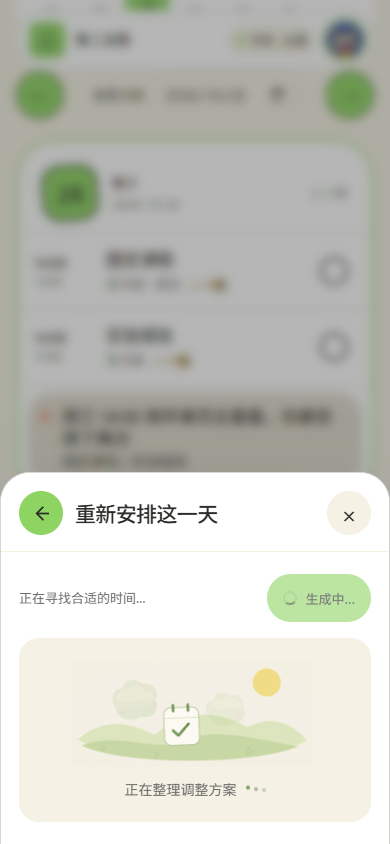
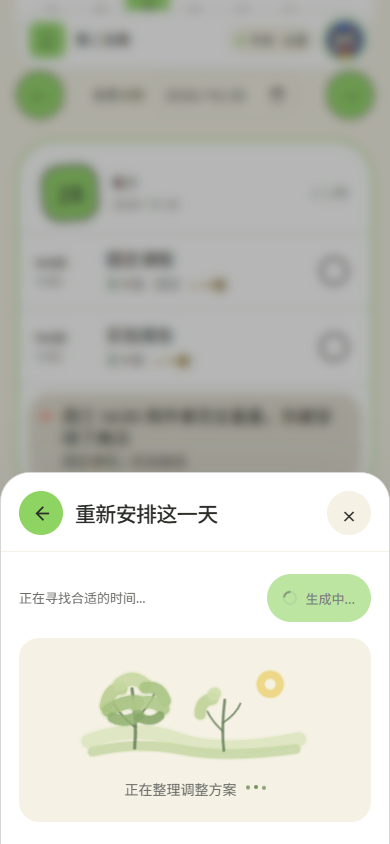
fix: draw loading orchard stroke by stroke

Changed region(s): [[0.2154, 0.7701, 0.7692, 0.9242], [0.6462, 0.9242, 0.6769, 0.955]]

diff --git a/src/ui/composites/PlanningLoading.tsx b/src/ui/composites/PlanningLoading.tsx
@@ -1,40 +1,99 @@
-import { useId } from "react";
+"use client";
 
-/** A small, self-contained orchard inspired by the supplied brush animation. */
+import { useEffect, useId, useRef } from "react";
+
+type Stroke = { d: string; color: string; width: number; weight?: number; branch?: boolean };
+// Every path is one brush movement, revealed in strict order on a shared timeline.
+const STROKES: Stroke[] = [
+  { d: "M38 103Q92 83 140 101T279 101", color: "#dce5bf", width: 16, weight: 2 },
+  { d: "M43 115Q95 103 145 113T275 112", color: "#c8d8a7", width: 11, weight: 1.6 },
+  { d: "M246 27a11 11 0 1 1-.1 0", color: "#ecd57b", width: 9, weight: 1.5 },
+  { d: "M91 111Q94 82 88 43", color: "#6e8561", width: 3.5, weight: 1.4, branch: true },
+  { d: "M92 87Q76 76 67 60", color: "#6e8561", width: 2.5, branch: true },
+  { d: "M91 77Q107 66 114 48", color: "#6e8561", width: 2.5, branch: true },
+  { d: "M58 63Q62 42 76 43", color: "#b8cd8e", width: 14, weight: 1.3 },
+  { d: "M74 38Q89 26 103 39", color: "#c6d9a0", width: 15, weight: 1.3 },
+  { d: "M103 42Q120 39 126 57", color: "#a8c383", width: 13 },
+  { d: "M61 68Q78 57 94 58", color: "#a6c17f", width: 15, weight: 1.2 },
+  { d: "M92 62Q111 53 124 66", color: "#afc88a", width: 14 },
+  { d: "M66 76Q82 84 96 73", color: "#93b372", width: 12 },
+  { d: "M96 76Q111 83 120 74", color: "#86a768", width: 10 },
+  { d: "M193 114Q190 89 194 56", color: "#6e8561", width: 3, weight: 1.2, branch: true },
+  { d: "M192 92Q180 81 174 69", color: "#6e8561", width: 2, branch: true },
+  { d: "M192 82Q207 72 212 60", color: "#6e8561", width: 2, branch: true },
+  { d: "M166 72Q166 56 180 55", color: "#bed398", width: 13 },
+  { d: "M181 50Q194 40 207 52", color: "#cfddac", width: 14 },
+  { d: "M208 57Q222 55 224 71", color: "#b3cb8b", width: 12 },
+  { d: "M169 77Q184 67 199 73", color: "#abc584", width: 14 },
+  { d: "M185 84Q204 91 219 80", color: "#9dbb78", width: 12 },
+  { d: "M72 47l1 1", color: "#e9bdb0", width: 5, weight: .35 },
+  { d: "M99 39l1 1", color: "#e9bdb0", width: 6, weight: .35 },
+  { d: "M114 61l1 1", color: "#f0cabc", width: 5, weight: .35 },
+  { d: "M78 70l1 1", color: "#efd0bc", width: 4, weight: .35 },
+  { d: "M181 65l1 1", color: "#e9bdb0", width: 5, weight: .35 },
+  { d: "M209 74l1 1", color: "#efc8b7", width: 5, weight: .35 },
+  { d: "M134 76v23", color: "#fdfbf4", width: 15, weight: .6 },
+  { d: "M146 76v23", color: "#fdfbf4", width: 15, weight: .6 },
+  { d: "M157 76v23", color: "#fdfbf4", width: 15, weight: .6 },
+  { d: "M134 66h23q8 0 8 8v27q0 8-8 8h-23q-8 0-8-8V74q0-8 8-8Z", color: "#9eb781", width: 1.8, weight: 2 },
+  { d: "M128 78h35", color: "#c8d8a7", width: 1.5, weight: .7 },
+  { d: "M136 62v8", color: "#78965f", width: 3, weight: .4 },
+  { d: "M154 62v8", color: "#78965f", width: 3, weight: .4 },
+  { d: "M135 92l6 6 13-14", color: "#6b9350", width: 3, weight: 1.2 },
+  { d: "M53 114l-2-7m3 7 4-5", color: "#89a66d", width: 2, weight: .5 },
+  { d: "M218 118l3-9m-1 9 7-4", color: "#89a66d", width: 2, weight: .5 },
+  { d: "M112 122l-2-6m2 6 5-4", color: "#89a66d", width: 2, weight: .5 },
+];
+const TOTAL_WEIGHT = STROKES.reduce((sum, stroke) => sum + (stroke.weight ?? 1), 0);
+const CYCLE_MS = 6200;
+
 export function PlanningLoading({ label }: { label: string }) {
   const paperId = useId();
+  const drawing = useRef<SVGGElement>(null);
+  useEffect(() => {
+    const strokes = Array.from(drawing.current?.querySelectorAll<SVGGElement>(".orchard-stroke") ?? []);
+    const preference = window.matchMedia("(prefers-reduced-motion: reduce)");
+    let animations: Animation[] = [];
+    const play = () => {
+      animations.forEach(animation => animation.cancel());
+      animations = [];
+      let cursor = 0;
+      strokes.forEach((element, index) => {
+        const stroke = STROKES[index];
+        if (!stroke) return;
+        element.style.strokeDashoffset = preference.matches ? "0" : "1";
+        element.style.opacity = preference.matches ? "1" : "0";
+        if (preference.matches) return;
+        const start = .02 + cursor / TOTAL_WEIGHT * .78;
+        cursor += stroke.weight ?? 1;
+        const end = .02 + cursor / TOTAL_WEIGHT * .78;
+        animations.push(element.animate([
+          { strokeDashoffset: "1", opacity: 0, offset: 0 },
+          { strokeDashoffset: "1", opacity: 0, offset: start },
+          { strokeDashoffset: "1", opacity: 1, offset: start + .0001 },
+          { strokeDashoffset: "0", opacity: 1, offset: end },
+          { strokeDashoffset: "0", opacity: 1, offset: .94 },
+          { strokeDashoffset: "0", opacity: 0, offset: 1 },
+        ], { duration: CYCLE_MS, iterations: Infinity, easing: "linear" }));
+      });
+      if (animations.length) {
+        const origin = document.timeline.currentTime;
+        animations.forEach(animation => { animation.startTime = origin; });
+      }
+    };
+    play();
+    preference.addEventListener("change", play);
+    return () => { preference.removeEventListener("change", play); animations.forEach(animation => animation.cancel()); };
+  }, []);
+
   return <div className="planning-loading" role="status" aria-live="polite" aria-atomic="true">
     <svg className="planning-orchard" viewBox="0 0 320 140" width="320" height="140" aria-hidden="true" focusable="false">
-      <defs><filter id={paperId} x="0" y="0" width="100%" height="100%"><feTurbulence type="fractalNoise" baseFrequency=".65" numOctaves="2" seed="8" /><feColorMatrix type="saturate" values="0" /><feComponentTransfer><feFuncA type="linear" slope=".055" /></feComponentTransfer><feBlend in="SourceGraphic" mode="multiply" /></filter></defs>
-      <g filter={"url(#" + paperId + ")"}>
-        <path fill="#f5f1e7" d="M23 96C9 70 34 19 83 26c38-27 74-6 99-7 44-9 105 13 111 49 8 44-49 59-103 53-62 18-146 12-167-25Z" />
-        <circle className="orchard-sun" cx="242" cy="36" r="16" fill="#f1dd85" />
-        <path fill="#dde6bf" d="M26 101c30-26 61-19 88-5 35-32 74-27 106-9 27-14 50-6 68 15-42 26-211 31-262-1Z" />
-        <path fill="#c9d9a5" d="M30 108c42-15 74 4 107-2 43-22 91-5 141 3-48 21-196 23-248-1Z" />
-        <g className="orchard-tree orchard-tree-one" style={{ transformOrigin: "91px 108px" }}>
-          <path className="orchard-branch" d="M91 109c1-19-3-42-1-65m1 41L73 68m18 9 17-19" />
-          <g className="orchard-crown" style={{ transformOrigin: "90px 61px" }}>
-            <path fill="#9fbe7b" d="M58 69c-13-17-4-36 12-37 3-18 26-19 35-7 19-5 34 15 23 29 10 20-7 34-24 29-19 12-43 5-46-14Z" />
-            <path fill="#bfd394" d="M59 54c-3-16 11-22 21-17 6-14 25-13 30 0 11-1 17 7 13 16-20-6-36 11-64 1Z" />
-            <path fill="#789e66" opacity=".45" d="M60 71c18 8 33-8 47-5 12-1 16-9 23-9 5 18-9 28-26 24-17 10-38 7-44-10Z" />
-          </g>
-        </g>
-        <g className="orchard-tree orchard-tree-two" style={{ transformOrigin: "192px 112px" }}>
-          <path className="orchard-branch" d="M192 114c-2-21 3-38 0-53m0 31-15-14m16 6 15-14" />
-          <g className="orchard-crown" style={{ transformOrigin: "193px 68px" }}>
-            <path fill="#b3cb8e" d="M165 77c-9-12-3-27 10-29 1-13 18-17 28-7 14-5 29 7 24 20 9 15-2 29-16 29-18 11-39 3-46-13Z" />
-            <path fill="#d1dfad" d="M168 63c-1-12 11-17 20-13 6-10 19-9 23 1 12-2 15 6 12 14-20-8-32 9-55-2Z" />
-          </g>
-        </g>
-        <g className="orchard-blossoms" fill="#efc8b7">
-          <circle cx="72" cy="47" r="3" /><circle cx="100" cy="39" r="3.5" /><circle cx="115" cy="61" r="3" /><circle cx="78" cy="70" r="2.5" /><circle cx="181" cy="65" r="3" /><circle cx="209" cy="73" r="3.5" />
-        </g>
-        <g className="orchard-note" style={{ transformOrigin: "145px 93px" }}>
-          <rect x="125" y="65" width="40" height="43" rx="8" fill="#fdfbf4" stroke="#b4c69b" />
-          <path d="M126 77h38" stroke="#d9e4c1" /><path d="M136 62v7m17-7v7" stroke="#78965f" strokeWidth="3" strokeLinecap="round" />
-          <path className="orchard-check" d="m135 91 6 6 12-13" fill="none" stroke="#6f9654" strokeWidth="3" strokeLinecap="round" strokeLinejoin="round" />
-        </g>
-        <path className="orchard-grass" d="m54 113-2-7m3 8 3-5m161 8 3-8m-2 9 7-4m-110 8-2-6m-1 6 5-4" fill="none" stroke="#89a66d" strokeWidth="2" strokeLinecap="round" />
+      <defs><filter id={paperId} x="-10%" y="-15%" width="120%" height="130%"><feTurbulence type="fractalNoise" baseFrequency=".055" numOctaves="2" seed="8" result="grain" /><feDisplacementMap in="SourceGraphic" in2="grain" scale="1.2" xChannelSelector="R" yChannelSelector="G" /></filter></defs>
+      <g ref={drawing} filter={"url(#" + paperId + ")"} fill="none" strokeLinecap="round" strokeLinejoin="round">
+        {STROKES.map((stroke, index) => <g key={index} className={"orchard-stroke" + (stroke.branch ? " orchard-branch" : "")} data-stroke={index} stroke={stroke.color}>
+          <path d={stroke.d} pathLength={1} strokeWidth={stroke.width * 1.3} opacity={.2} />
+          <path d={stroke.d} pathLength={1} strokeWidth={stroke.width} opacity={.85} />
+        </g>)}
       </g>
     </svg>
     <span className="planning-loading-label">{label}<span className="planning-loading-dots" aria-hidden="true"><i /><i /><i /></span></span>

diff --git a/src/app/globals.css b/src/app/globals.css
@@ -521,15 +521,11 @@ input:not([type=checkbox]),select{border:1px solid var(--sand);background:var(--
 .planning-loading{display:flex;flex-direction:column;align-items:center;justify-content:center;gap:6px;min-height:202px;padding:12px 16px 20px;border-radius:20px;background:var(--cream);overflow:hidden;color:var(--muted)}
 .planning-button-spinner{display:inline-block;flex:none;width:14px;height:14px;border:2px solid #6f965466;border-top-color:#31521f;border-radius:50%;animation:spin .8s linear infinite}.replan-toolbar .btn,.replan-feedback .btn{gap:8px}
 .planning-orchard{display:block;width:min(100%,320px);height:auto;flex-shrink:0}.planning-loading-label{display:flex;align-items:center;justify-content:center;gap:9px;font-size:14px;line-height:1.6;text-align:center}.planning-loading-dots{display:inline-flex;gap:4px}.planning-loading-dots i{width:4px;height:4px;border-radius:50%;background:#78965f;animation:orchard-dot 1.4s ease-in-out infinite}.planning-loading-dots i:nth-child(2){animation-delay:.18s}.planning-loading-dots i:nth-child(3){animation-delay:.36s}
-.orchard-branch{fill:none;stroke:#789066;stroke-width:3;stroke-linecap:round;stroke-linejoin:round;stroke-dasharray:130;animation:orchard-draw 5.2s ease-in-out infinite}.orchard-tree-two .orchard-branch{animation-delay:.3s}.orchard-crown{animation:orchard-grow 5.2s ease-in-out infinite}.orchard-tree-two .orchard-crown{animation-delay:.3s}.orchard-blossoms{animation:orchard-bloom 5.2s ease-in-out infinite}.orchard-note{animation:orchard-float 3s ease-in-out infinite}.orchard-check{stroke-dasharray:30;animation:orchard-draw 5.2s ease-in-out infinite .8s}.orchard-grass{animation:orchard-bloom 5.2s ease-in-out infinite .2s}.replan-feedback .planning-loading{min-height:180px;padding:4px 10px 14px}.replan-feedback .planning-orchard{width:min(100%,260px)}
-@keyframes orchard-draw{0%,8%{stroke-dashoffset:130;opacity:.3}38%,88%{stroke-dashoffset:0;opacity:1}100%{stroke-dashoffset:0;opacity:.3}}
-@keyframes orchard-grow{0%,10%{transform:scale(.64);opacity:.18}42%,88%{transform:scale(1);opacity:1}100%{transform:scale(.96);opacity:.35}}
-@keyframes orchard-bloom{0%,24%{opacity:.12}52%,88%{opacity:1}100%{opacity:.2}}
-@keyframes orchard-float{0%,100%{transform:translateY(0) rotate(-3deg)}50%{transform:translateY(-4px) rotate(2deg)}}
+.orchard-stroke{stroke-dasharray:1 1;stroke-dashoffset:1;opacity:0}.replan-feedback .planning-loading{min-height:180px;padding:4px 10px 14px}.replan-feedback .planning-orchard{width:min(100%,260px)}
 @keyframes orchard-dot{0%,80%,100%{opacity:.35;transform:translateY(0)}40%{opacity:1;transform:translateY(-3px)}}
 .replan-feedback .planning-loading{align-items:center;justify-content:center;gap:6px}.replan-feedback .planning-loading-label{font-size:14px}
 @media(max-width:600px){.planning-loading{min-height:184px;padding:8px 12px 16px}.planning-orchard{width:min(100%,280px)}}
-@media(prefers-reduced-motion:reduce){.planning-loading *{animation:none!important;transform:none!important;opacity:1!important;stroke-dashoffset:0!important}.orchard-branch,.orchard-check{stroke-dasharray:none}}
+@media(prefers-reduced-motion:reduce){.planning-loading *{animation:none!important;transform:none!important;opacity:1!important;stroke-dashoffset:0!important}.orchard-stroke{stroke-dasharray:none}}
 .replan-choices{display:flex;gap:10px;flex-wrap:wrap}.replan-choices button{flex:1 1 140px;min-width:0;display:flex;align-items:center;gap:10px;min-height:60px;padding:12px 16px;border-radius:18px;background:var(--cream);text-align:left;font-size:14px;border:1px solid transparent;overflow-wrap:anywhere}.replan-choices button[aria-pressed=true]{background:var(--green);border-color:var(--ink)}.replan-choice-number{font-size:11px;opacity:.65;font-variant-numeric:tabular-nums}
 .replan-comparison{padding:24px;border:1px solid var(--sand);border-radius:24px;background:white;min-width:0}.replan-overview{display:flex;justify-content:space-between;align-items:center;gap:16px;padding-bottom:20px;border-bottom:1px solid var(--sand)}.replan-overview h3{font-size:22px;line-height:1.4;overflow-wrap:anywhere}.replan-eyebrow{font-size:12px;color:var(--muted);display:block;margin-bottom:6px}.replan-stat{display:flex;align-items:center;gap:12px;flex-shrink:0;background:var(--cream);padding:12px 16px;border-radius:16px}.replan-stat>span{font-size:12px;color:var(--muted)}.replan-stat strong{font-size:24px;font-weight:500;display:flex;align-items:center;gap:10px;font-variant-numeric:tabular-nums}.replan-stat i{font-style:normal;font-size:18px;color:var(--muted)}
 .replan-change-head{display:flex;justify-content:space-between;gap:12px;align-items:center;margin:22px 0 12px}.replan-change-head h4{font-size:14px;font-weight:500}.replan-change-head>span{font-size:12px;color:var(--muted)}.replan-change-list{list-style:none;padding:0;margin:0;display:grid;gap:14px}.replan-change-list>li{padding:18px;background:var(--cream);border-radius:18px;min-width:0}.replan-change-list h4{font-size:16px;font-weight:500;line-height:1.6;margin-bottom:12px;overflow-wrap:anywhere}

diff --git a/README.md b/README.md
@@ -49,7 +49,7 @@ DeepSeek官方配置示例（2026-10-25核对）：LLM_BASE_URL=https://api.deep
 
 - 方案下方可补充偏好，点击「按补充调整」由AI结合当前方案再排，显示一句变动说明；确认采用才更新日程。失败保留原方案和输入。补充属于自然语言偏好，仍需核对，无法替代固定安排等硬约束。
 - 不展示未采用的候选；本地兜底仅标「本地方案」。模型收到当前时间、完成状态及缓冲/冲突信息，全体候选不合规时按已有上限带原因修复，仍失败才兜底。补充调整不使用忽略用户要求的本地兜底。
-- 首次生成与补充调整使用轻量主题果园加载动画，按钮同步显示忙碌状态；等待时隐藏旧来源标记，保留方案和输入。减少动态时展示静态插画，无外部动画脚本。
+- 首次生成与补充调整使用38笔顺序绘制的主题果园加载动画：从空白逐笔画出，成画短暂停留后重画；按钮同步显示忙碌状态。等待时隐藏旧来源，保留方案和输入；减少动态时静态呈现，无外部动画脚本。
 
 - 文字/图片统一整理，桌面分步弹窗、手机底部面板；补充信息 → 时间线核对 → 确认入库。绿色返回键恢复上一步；关闭后可继续。手动新增兜底。
 - 时间重叠、通勤缓冲不足、日负荷和截止逼近四类确定性规则；地点未知时保守提示，阈值是产品规则而非健康建议。
@@ -62,7 +62,7 @@ DeepSeek官方配置示例（2026-10-25核对）：LLM_BASE_URL=https://api.deep
 
 src/app 路由与API；src/ui 页面和交互；src/domain 契约/纯函数；src/data 存储/迁移；src/ai 服务端模型编排；src/shared 共享工具。见docs/ARCHITECTURE.md。
 
-2026-10-25最新：30个测试文件、385项测试、typecheck、eslint与生产构建通过；加载专项30项、五种尺寸、0个页面错误及外部资源请求。此前补充调整44项、重排45项、完整界面回归261项与输入专项153项保留原日期和范围，本轮未全部重跑。浏览器复用真实模型响应，延迟与失败分支受控，本轮无新增付费调用。详见docs/TEST-REPORT.md和docs/verification/planning-loading-checks.json。
+2026-10-25最新：30个测试文件、385项测试、typecheck、eslint与生产构建通过；逐笔加载专项35项、38/38笔顺序验证、五种尺寸、0个页面错误及外部资源请求。此前加载30项、补充调整44项、重排45项、完整界面回归261项与输入专项153项保留原日期和范围，本轮未全部重跑。浏览器复用真实模型响应，延迟与失败分支受控，本轮无新增付费调用。详见docs/TEST-REPORT.md和docs/verification/brush-loading-checks.json。
 
 ## 数据与适用边界
 

diff --git a/docs/prompts/015-stroke-by-stroke-loading.md b/docs/prompts/015-stroke-by-stroke-loading.md
@@ -1,0 +1,11 @@
+# 015 · 改为真正逐笔绘制
+
+日期：2026-10-25。本轮执行摘要，非原始聊天导出。
+
+用户指出014的加载并非参考资料中一笔笔画出来的效果。核对后确认旧树冠主要采用缩放与淡入，日历浮动，只有少量线条描边，未满足所需笔触过程。本轮替换该实现。
+
+现在将草地、太阳、树干、枝叶、花点、日历分成38个实际SVG笔触，每笔从起点沿路径画到终点；完成的笔画保留，再画下一笔。使用统一6.2秒时间线：从空白开始，约4.96秒绘制完毕，保留成画至约5.83秒后清场并重画。没有用树冠缩放或整图淡入替代绘制。首次生成与补充调整共用此组件。请求结束立即显示结果，不为了动画延迟返回。
+
+采用Web Animations API沿路径控制strokeDashoffset，无外部脚本、无逐帧React更新。笔触有轻量毛边和双层颜色。减少动态时保留完整静态画面，偏好切换会取消或重建动画；组件卸载时取消动画和偏好监听。
+
+重新通过TypeScript、ESLint、30文件385项单测及生产构建。Chromium专项35项通过、0页面错误、0外部请求；以动画实际时间定位每笔中段，38/38均满足前序完成、当前绘制中、后序未出现，核对空白起点、完整停留及循环清空。覆盖5个尺寸、生成/补充加载、保留输入与方案、失败恢复、重复点击、减少动态。受控延迟响应复用既有真实合成方案，无新增付费模型调用。报告见verification/brush-loading-checks.json；分帧图见screenshots/brush-loading-sequence.png。

diff --git a/docs/TEST-REPORT.md b/docs/TEST-REPORT.md
@@ -1,5 +1,7 @@
 # 正式版验证记录
 
+015更新（2026-10-25）：重新通过typecheck、ESLint、30文件385项单测及生产构建。逐笔加载专项35项通过，38/38笔顺序核对，空白起点/完整停留/循环清空通过，5尺寸、减少动态、页面错误0、外部请求0。受控延迟/失败响应复用既有方案，未追加付费AI测试。见verification/brush-loading-checks.json；014的30项为历史范围，旧缩放淡入动画已替换。
+
 014更新（2026-10-25）：重新通过typecheck、ESLint、30文件385项单测与生产构建。加载动画专项30项、5尺寸通过，页面错误0、外部请求0；首次生成与补充调整、实际CSS运动、旧来源隐藏、重复点击、保留方案/输入、失败恢复和减少动态均核对。使用受控延迟响应复用既有真实方案，本轮未追加付费模型测试。见verification/planning-loading-checks.json与prompts/014-planning-loading.md。013的44项及012的45项为历史专项范围。
 
 013更新（2026-10-25）：30文件385项单测、typecheck、ESLint及构建通过；重排补充专项44项、四尺寸、页面错误0。真实补充调用约2秒返回3套符合19:00后/21:30前要求的合成方案，固定课未动，live且未回退。见verification/refinement-checks.json、live-ai/feedback.json；先前45项为012历史范围，本轮并未重跑全部历史回归。自然语言偏好不是任意硬约束的形式化保证，需人工核对。

diff --git a/docs/prompts/README.md b/docs/prompts/README.md
@@ -1,5 +1,7 @@
 # AI 过程证据阅读说明
 
+015-stroke-by-stroke-loading.md为最新：根据用户反馈将014的缩放/淡入加载改为38笔顺序描绘，附逐帧和顺序验证；执行摘要并非原始聊天导出。
+
 014-planning-loading.md记录本轮主题果园加载动画、加载时旧来源隐藏与具体校验原因核对；属于执行摘要，非原始聊天导出。
 
 013-replan-user-feedback.md为最新重排补充、业务失败修复和精简展示的执行摘要；真实合成输入响应另存verification/live-ai/feedback.json。
